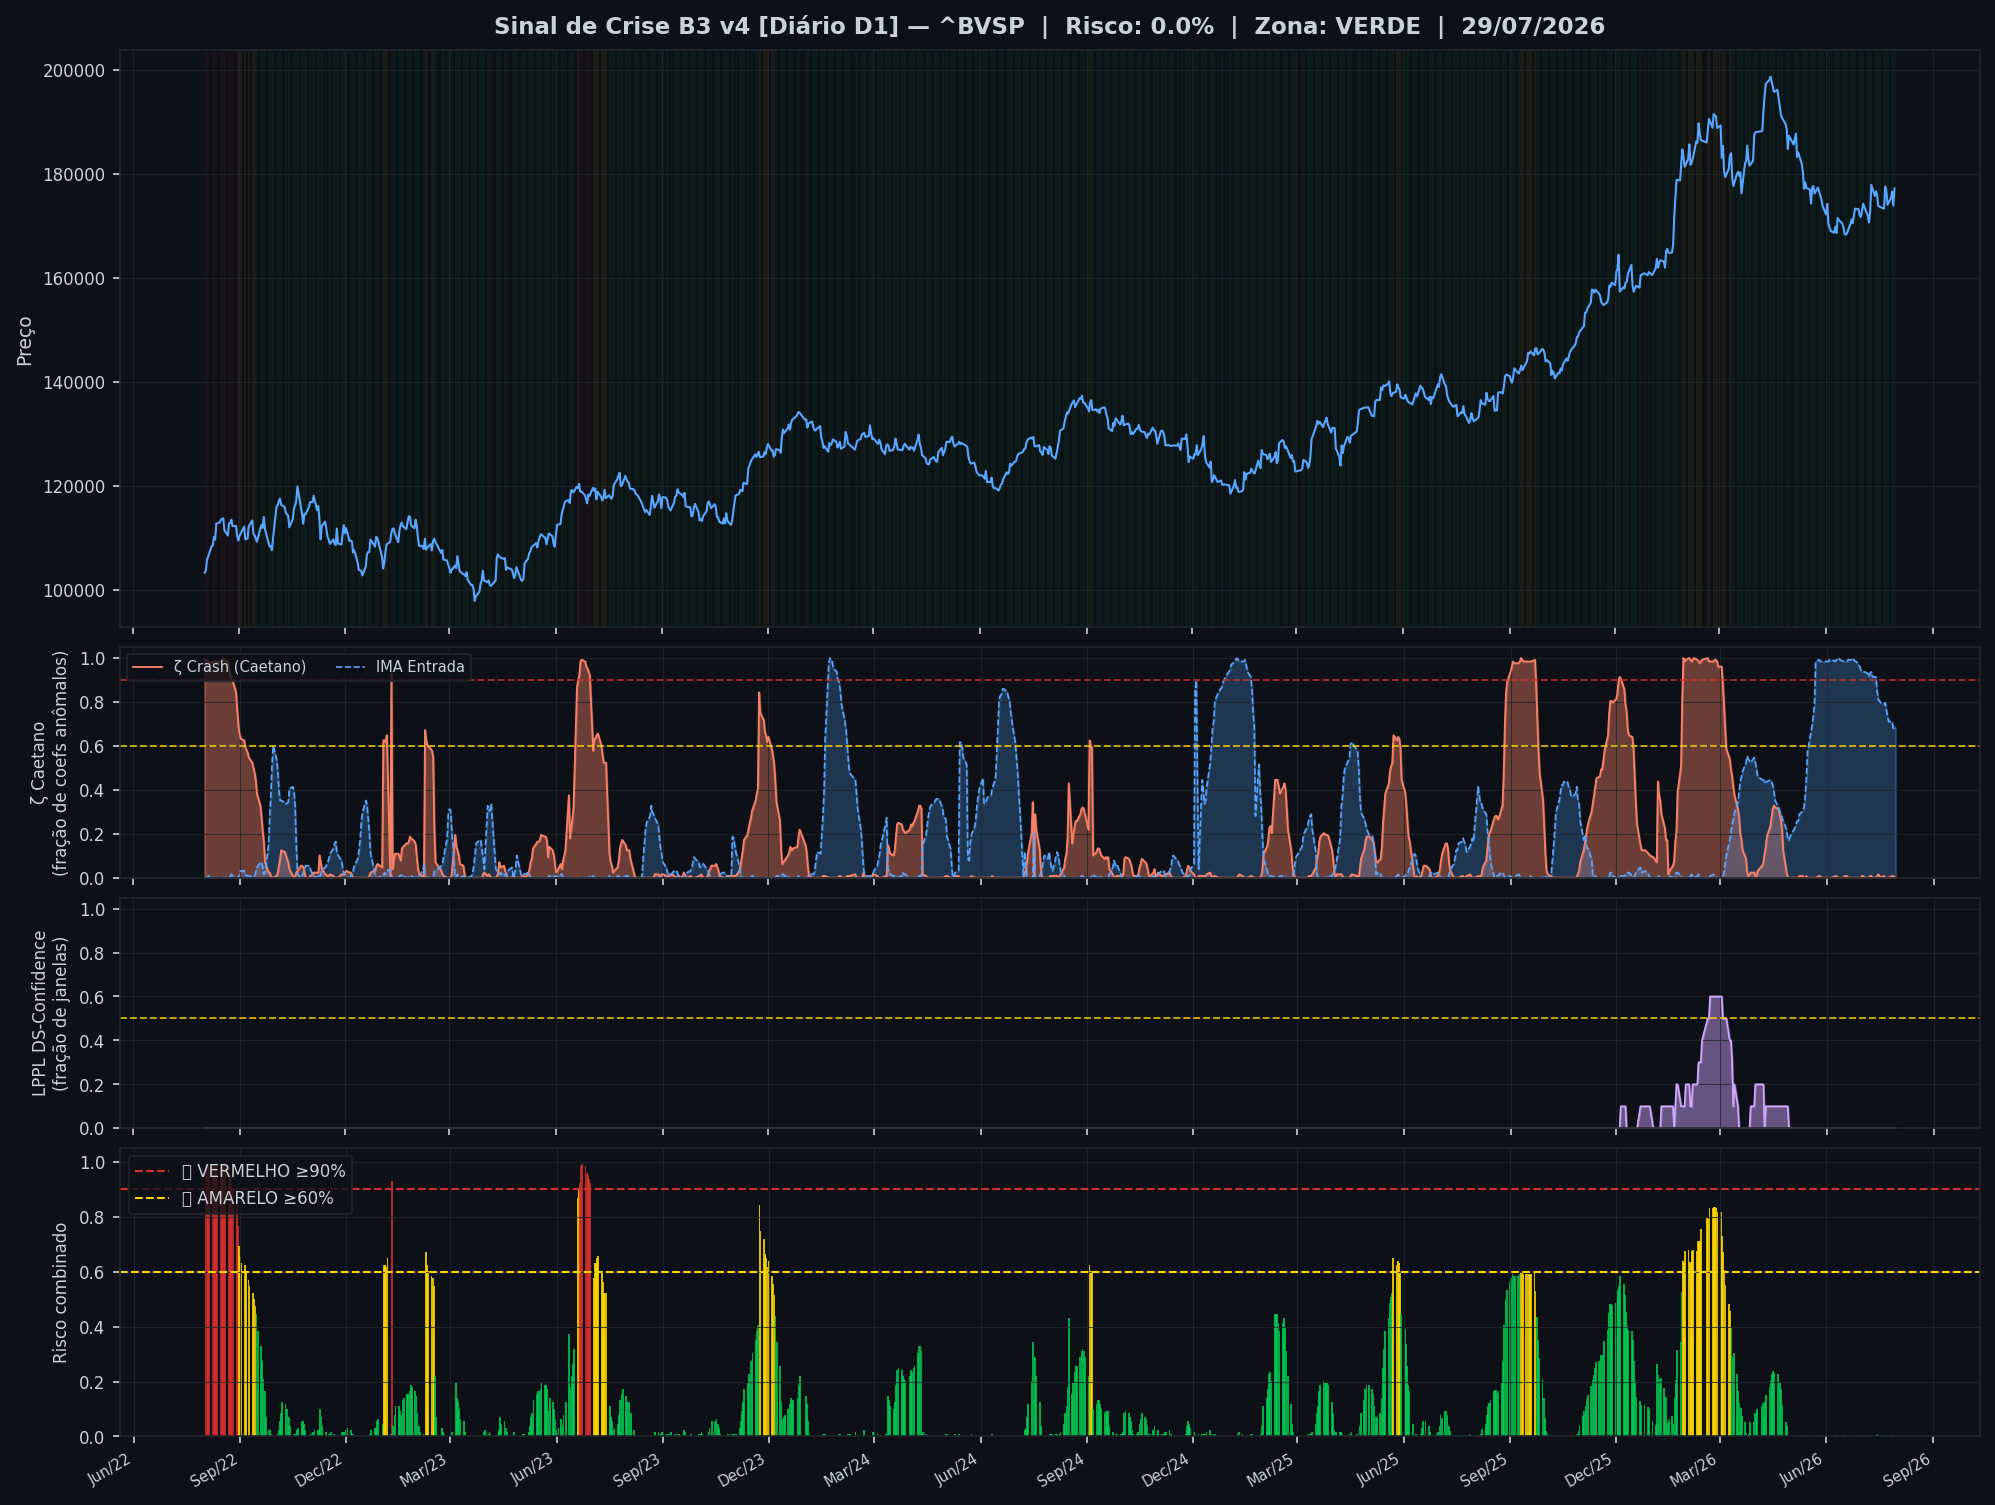
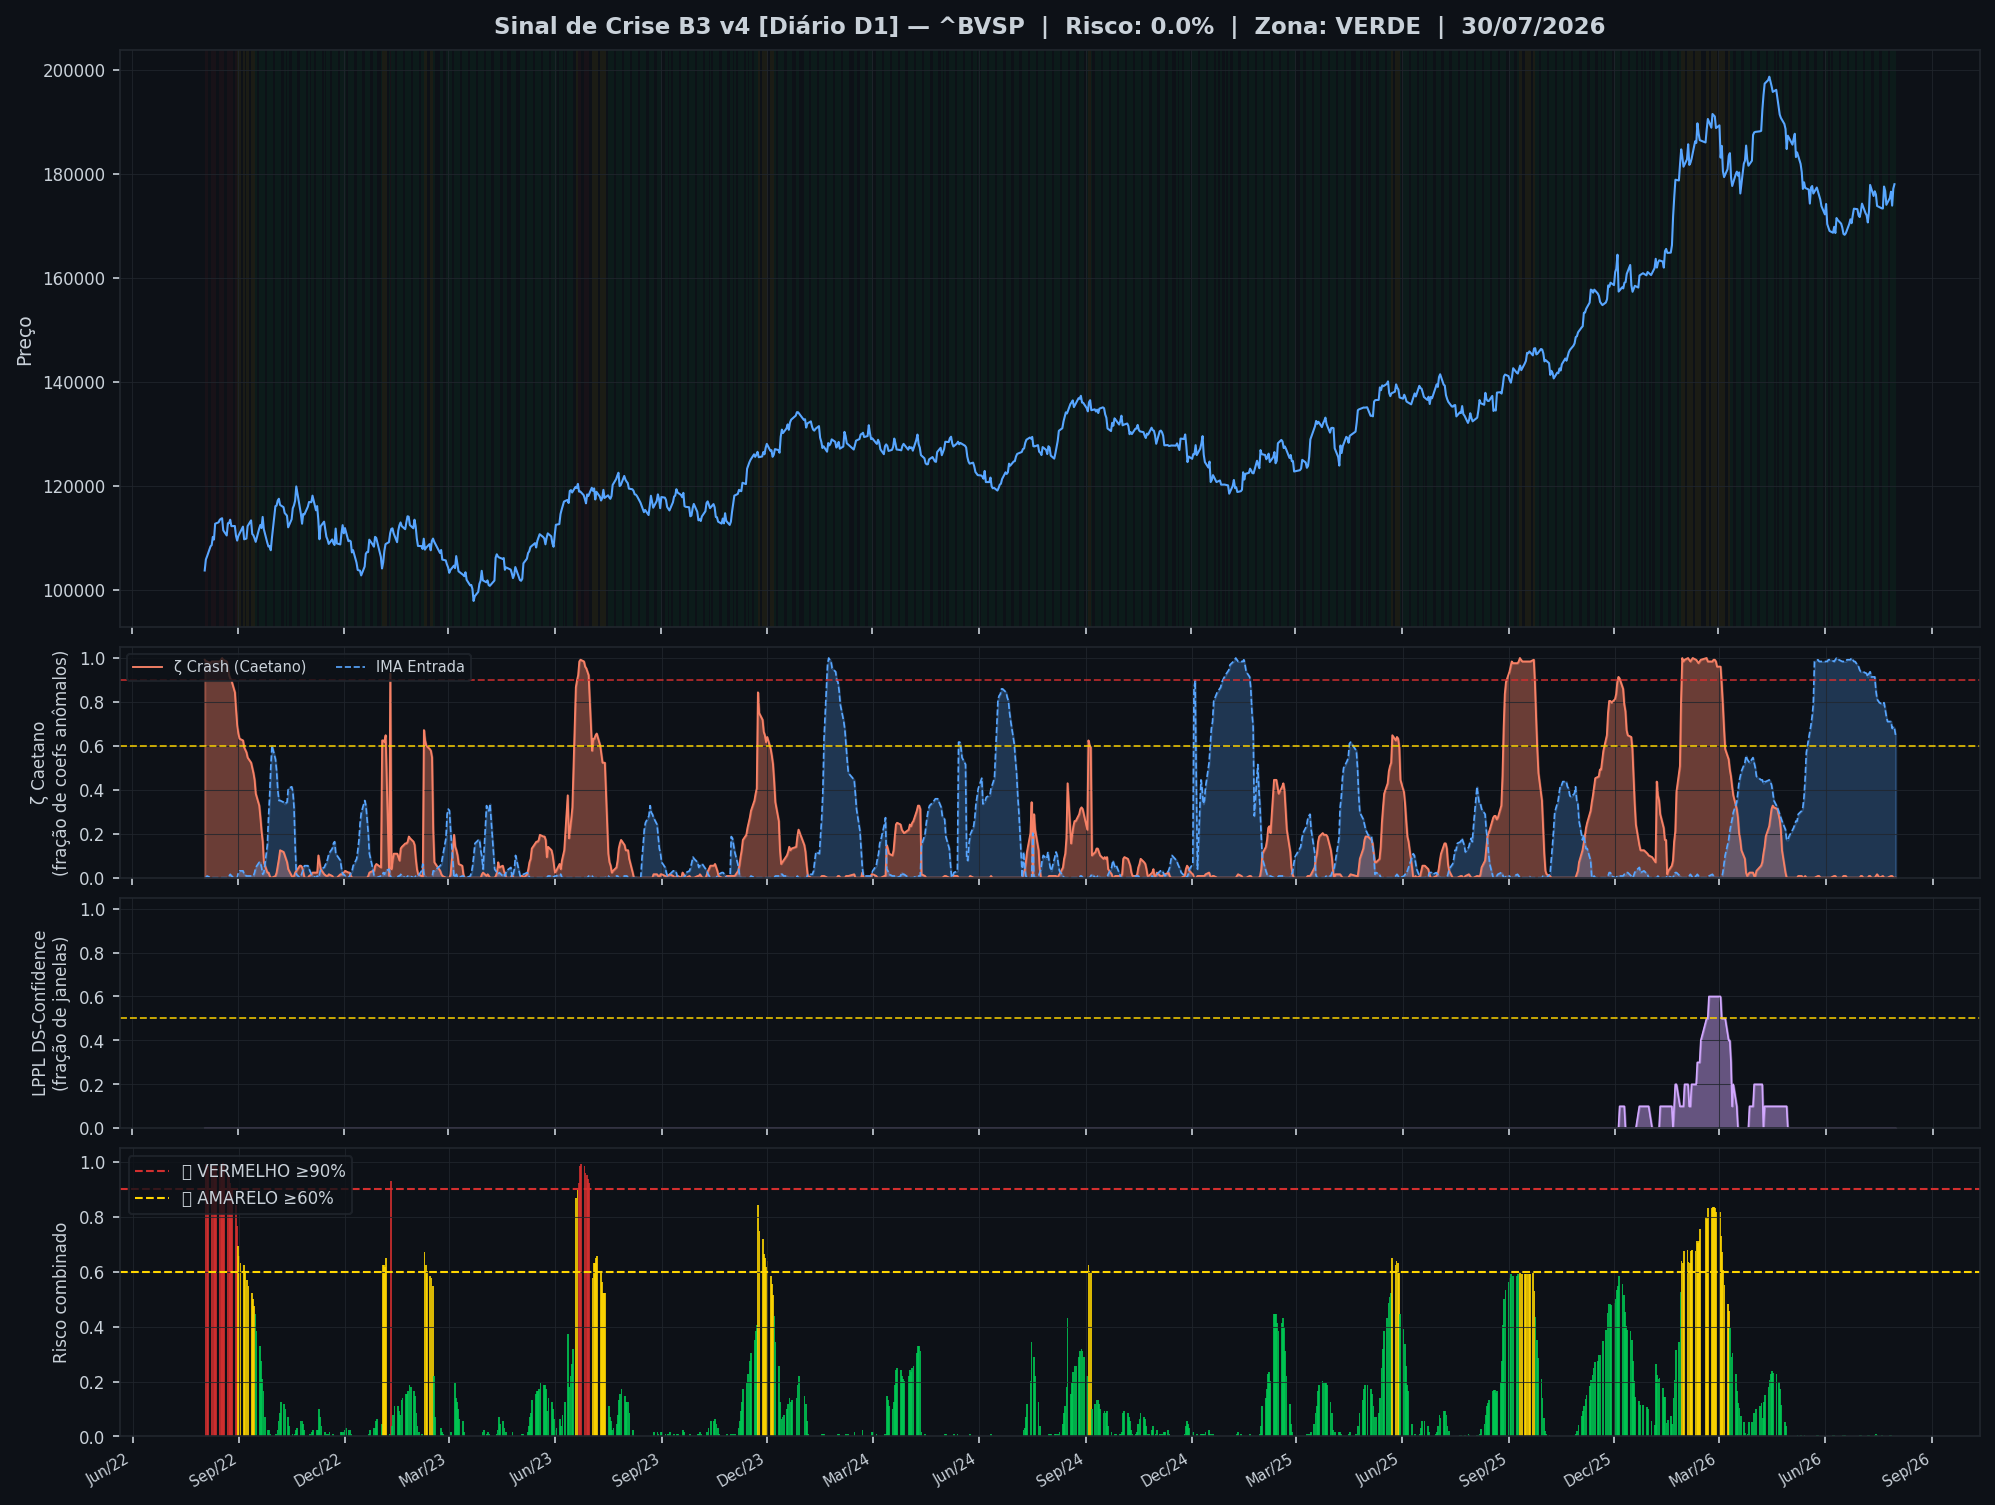
🤖 Auto: Sinal 31/07/2026 19:00

diff --git a/content/diario/2026-07-30.md b/content/diario/2026-07-30.md
@@ -1,0 +1,104 @@
+---
+title: "🟢 Diário 30/07/2026 — VERDE"
+date: 2026-07-31
+tags: [diario]
+---
+
+> [!success] 🟢 **VERDE** — Risco 0% · ＝ +0 p.p. vs leitura anterior
+> `░░░░░░░░░░░░░░░░░░░░`
+> Mercado sem sinais relevantes de estresse.
+
+
+| Indicador | Valor |
+|---|---|
+| 🔴 ζ Crash — severidade da queda em curso | **0%** |
+| 🔵 ζ Entrada — estrutura de fundo | 65% |
+| 🫧 LPPL DS-Confidence | 0% |
+| 📊 Ibovespa | 177.999 pts |
+
+![Gráfico do sinal](../graficos/sinal_diario.png)
+
+## Últimos 30 pregões
+
+| Data | Zona | Risco | IMA Crash | Entrada | LPPL |
+|---|---|---|---|---|---|
+| 2026-07-30 21:00 | 🟢 VERDE | **0%** | 0% | 65% | 0% |
+| 2026-07-29 21:00 | 🟢 VERDE | **0%** | 0% | 68% | 0% |
+| 2026-07-28 21:00 | 🟢 VERDE | **0%** | 0% | 69% | 0% |
+| 2026-07-27 21:00 | 🟢 VERDE | **0%** | 1% | 68% | 0% |
+| 2026-07-26 21:00 | 🟢 VERDE | **0%** | 1% | 71% | 0% |
+| 2026-07-23 21:00 | 🟢 VERDE | **0%** | 0% | 71% | 0% |
+| 2026-07-22 21:00 | 🟢 VERDE | **0%** | 0% | 73% | 0% |
+| 2026-07-21 21:00 | 🟢 VERDE | **0%** | 0% | 77% | 0% |
+| 2026-07-20 21:00 | 🟢 VERDE | **0%** | 0% | 80% | 0% |
+| 2026-07-19 21:00 | 🟢 VERDE | **0%** | 1% | 79% | 0% |
+| 2026-07-16 21:00 | 🟢 VERDE | **0%** | 0% | 80% | 0% |
+| 2026-07-15 21:00 | 🟢 VERDE | **0%** | 1% | 80% | 0% |
+| 2026-07-14 21:00 | 🟢 VERDE | **1%** | 2% | 81% | 0% |
+| 2026-07-13 21:00 | 🟢 VERDE | **0%** | 1% | 85% | 0% |
+| 2026-07-12 21:00 | 🟢 VERDE | **0%** | 0% | 91% | 0% |
+| 2026-07-09 21:00 | 🟢 VERDE | **0%** | 0% | 91% | 0% |
+| 2026-07-08 21:00 | 🟢 VERDE | **0%** | 1% | 94% | 0% |
+| 2026-07-07 21:00 | 🟢 VERDE | **0%** | 1% | 93% | 0% |
+| 2026-07-06 21:00 | 🟢 VERDE | **0%** | 0% | 91% | 0% |
+| 2026-07-05 21:00 | 🟢 VERDE | **0%** | 0% | 93% | 0% |
+| 2026-07-02 21:00 | 🟢 VERDE | **0%** | 0% | 94% | 0% |
+| 2026-07-01 21:00 | 🟢 VERDE | **0%** | 1% | 94% | 0% |
+| 2026-06-30 21:00 | 🟢 VERDE | **0%** | 1% | 94% | 0% |
+| 2026-06-29 21:00 | 🟢 VERDE | **0%** | 0% | 95% | 0% |
+| 2026-06-28 21:00 | 🟢 VERDE | **0%** | 0% | 96% | 0% |
+| 2026-06-25 21:00 | 🟢 VERDE | **0%** | 0% | 98% | 0% |
+| 2026-06-24 21:00 | 🟢 VERDE | **0%** | 0% | 98% | 0% |
+| 2026-06-23 21:00 | 🟢 VERDE | **0%** | 0% | 99% | 0% |
+| 2026-06-22 21:00 | 🟢 VERDE | **0%** | 0% | 100% | 0% |
+| 2026-06-21 21:00 | 🟢 VERDE | **0%** | 0% | 99% | 0% |
+
+## Monitor Multi-Ativo
+
+**0% dos ativos em tensão** (0🔴 0🟡) — quanto mais ativos disparam juntos, mais confiável o sinal.
+
+| Zona | Ativo | Setor | IMA Crash | IMA Entrada |
+|---|---|---|---|---|
+| 🟢 | **USD/BRL** | Câmbio | 41.4% | 0.0% |
+| 🟢 | **VALE** | Mineração | 33.6% | 0.0% |
+| 🟢 | **ITAUUNIBANCO** | Financeiro | 33.6% | 0.0% |
+| 🟢 | **PETROBRAS** | Petróleo | 33.6% | 0.0% |
+| 🟢 | **AXIA ENERGIA** | Energia | 33.6% | 0.0% |
+| 🟢 | **PETROBRAS** | Petróleo | 33.6% | 0.0% |
+| 🟢 | **BRADESCO** | Financeiro | 33.6% | 0.0% |
+| 🟢 | **ITAUSA** | Financeiro | 33.6% | 0.0% |
+| 🟢 | **SABESP** | Saneamento | 33.6% | 0.0% |
+| 🟢 | **B3** | Financeiro | 33.6% | 0.0% |
+| 🟢 | **WEG** | Industrial | 33.6% | 0.0% |
+| 🟢 | **AMBEV S/A** | Consumo | 33.6% | 0.0% |
+| 🟢 | **BTGP BANCO** | Financeiro | 33.6% | 0.0% |
+| 🟢 | **EMBRAER** | Outros | 33.6% | 0.0% |
+| 🟢 | **BRASIL** | Financeiro | 33.6% | 0.0% |
+| 🟢 | **ENEVA** | Energia | 33.6% | 0.0% |
+| 🟢 | **EQUATORIAL** | Energia | 33.6% | 0.0% |
+| 🟢 | **PRIO** | Petróleo | 33.6% | 0.0% |
+| 🟢 | **COPEL** | Energia | 33.6% | 0.0% |
+| 🟢 | **VIBRA** | Energia | 33.6% | 0.0% |
+| 🟢 | **REDE D OR** | Saúde | 33.6% | 0.0% |
+| 🟢 | **LOCALIZA** | Aluguel | 33.6% | 0.0% |
+| 🟢 | **ULTRAPAR** | Outros | 33.6% | 0.0% |
+| 🟢 | **GERDAU** | Siderurgia | 33.6% | 0.0% |
+| 🟢 | **SUZANO S.A.** | Papel/Celulose | 33.6% | 0.0% |
+| 🟢 | **BBSEGURIDADE** | Financeiro | 33.6% | 0.0% |
+
+![Monitor multi-ativo](../graficos/multi_diario.png)
+
+*Página atualizada em 31/07/2026 19:00 BRT (leitura da barra de 2026-07-30 BRT).*
+
+> [!info]- Como interpretar (clique para expandir)
+> - **ζ Crash**: fração dos coeficientes wavelet acima do corte (Caetano & Yoneyama 2009). Escala absoluta: ζ=0,90 = 90% dos coeficientes anômalos — historicamente, quedas com ζ≥0,90 foram mais fundas e mais longas. **Mede a severidade do movimento em curso, não prevê o início da queda.**
+> - **ζ Entrada**: coeficientes negativos além do corte — estrutura de fundo, possível região de compra.
+> - **LPPL DS-Confidence**: fração de janelas (60–504 pregões) em que o modelo de bolha de Sornette produz um ajuste válido. 30% já é relevante; acima de 50% é forte evidência de estrutura de bolha.
+> - **Zonas com histerese**: o sinal só muda de zona ao cruzar o limiar de entrada, e só volta ao cruzar o de saída — evita flip-flop diário.
+
+
+---
+*Sinal de Crise B3 v4 · IMA Wavelet ([Caetano & Yoneyama, Physica-A 2007](https://doi.org/10.1016/j.physa.2007.03.054)) + LPPL DS-Confidence (Sornette, ETH-Zurich) · [Metodologia](metodologia) · [Histórico](historico)*
+
+> [!quote]- Aviso
+> Estudo acadêmico. Não constitui recomendação de investimento.

diff --git a/content/index.md b/content/index.md
@@ -8,19 +8,19 @@ tags: [home]
 
 Monitoramento diário e intraday do Ibovespa — **IMA Wavelet** (Prof. Marco Antonio Leonel Caetano, ITA/INSPER) + **LPPL DS-Confidence** (Prof. Didier Sornette, ETH-Zurich).
 
-*Última atualização: 31/07/2026 17:30 BRT · ^BVSP · Intraday 15min · v4*
+*Última atualização: 31/07/2026 19:00 BRT · ^BVSP · Diário D1 · v4*
 
-> [!success] 🟢 **VERDE** — Risco 2% · ▼ -1 p.p. vs leitura anterior
+> [!success] 🟢 **VERDE** — Risco 0% · ＝ +0 p.p. vs leitura anterior
 > `░░░░░░░░░░░░░░░░░░░░`
 > Mercado sem sinais relevantes de estresse.
 
 
 | Indicador | Valor |
 |---|---|
-| 🔴 ζ Crash — severidade da queda em curso | **2%** |
-| 🔵 ζ Entrada — estrutura de fundo | 4% |
+| 🔴 ζ Crash — severidade da queda em curso | **0%** |
+| 🔵 ζ Entrada — estrutura de fundo | 65% |
 | 🫧 LPPL DS-Confidence | 0% |
-| 📊 Ibovespa | 178.161 pts |
+| 📊 Ibovespa | 177.999 pts |
 
 **Multi-ativo:** 0% em tensão (0🔴 0🟡 de 26 ativos)
 
@@ -32,8 +32,13 @@ Monitoramento diário e intraday do Ibovespa — **IMA Wavelet** (Prof. Marco An
 
 | Data | Zona | Risco | IMA | LPPL |
 |---|---|---|---|---|
-| [31 Jul 2026](diario/2026-07-31) | 🟢 VERDE | **2%** | 2% | 0% |
-| [30 Jul 2026](diario/2026-07-30) | 🟢 VERDE | **19%** | 19% | 0% |
+| [30 Jul 2026](diario/2026-07-30) | 🟢 VERDE | **0%** | 0% | 0% |
+| [29 Jul 2026](diario/2026-07-29) | 🟢 VERDE | **0%** | 0% | 0% |
+| [28 Jul 2026](diario/2026-07-28) | 🟢 VERDE | **0%** | 0% | 0% |
+| [27 Jul 2026](diario/2026-07-27) | 🟢 VERDE | **0%** | 1% | 0% |
+| [26 Jul 2026](diario/2026-07-26) | 🟢 VERDE | **0%** | 1% | 0% |
+| [23 Jul 2026](diario/2026-07-23) | 🟢 VERDE | **0%** | 0% | 0% |
+| [22 Jul 2026](diario/2026-07-22) | 🟢 VERDE | **0%** | 0% | 0% |
 
 ## Navegação
 

diff --git a/content/historico.md b/content/historico.md
@@ -7,6 +7,7 @@ tags: [historico]
 
 | Data | Modo | Zona | Risco | IMA | LPPL |
 |---|---|---|---|---|---|
+| 2026-07-30 | diario | 🟢 VERDE | 0% | 0% | 0% |
 | 2026-07-31 16:45 | intraday | 🟢 VERDE | 2% | 2% | 0% |
 | 2026-07-31 16:30 | intraday | 🟢 VERDE | 2% | 2% | 0% |
 | 2026-07-31 16:15 | intraday | 🟢 VERDE | 5% | 5% | 0% |
